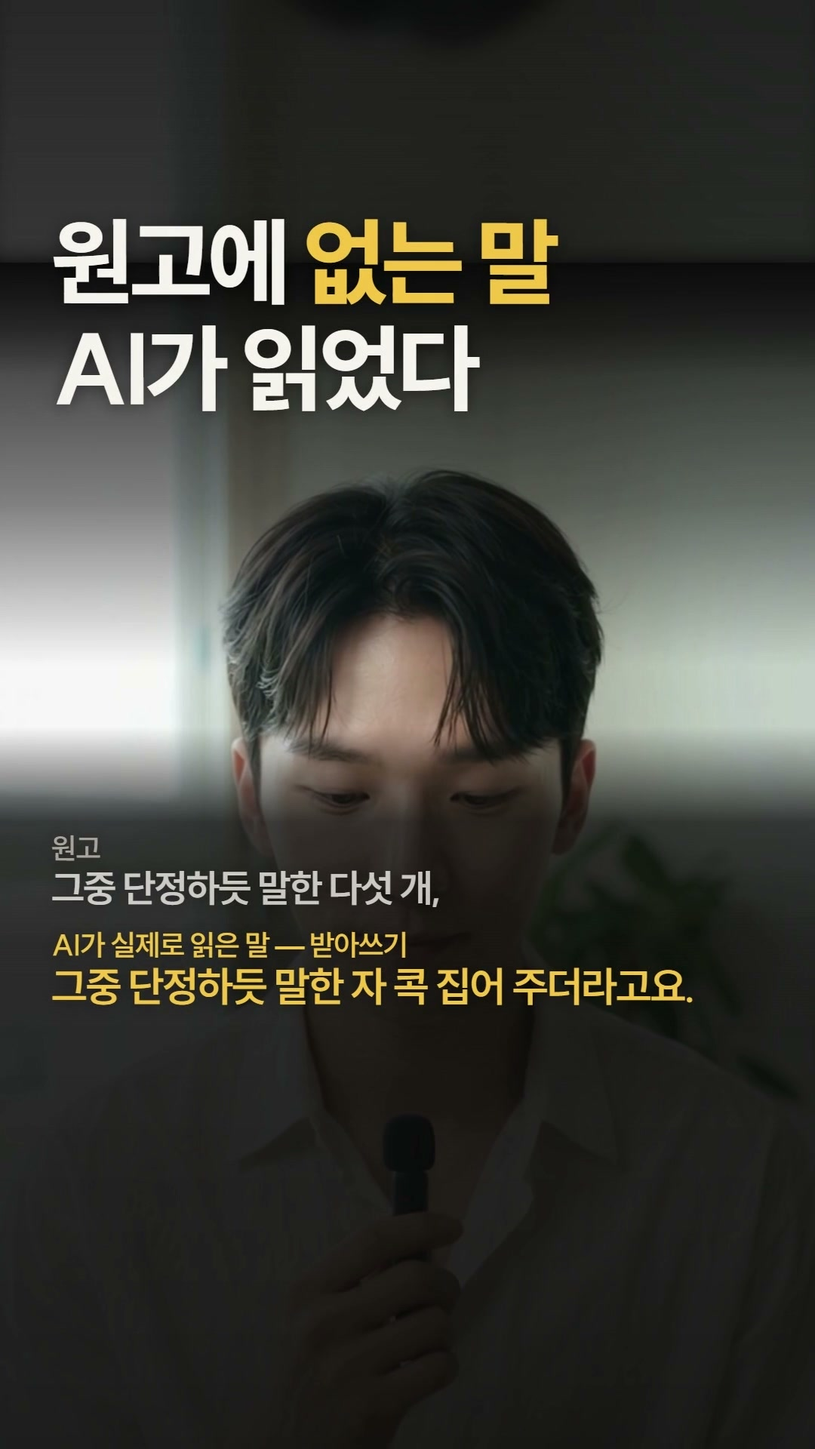
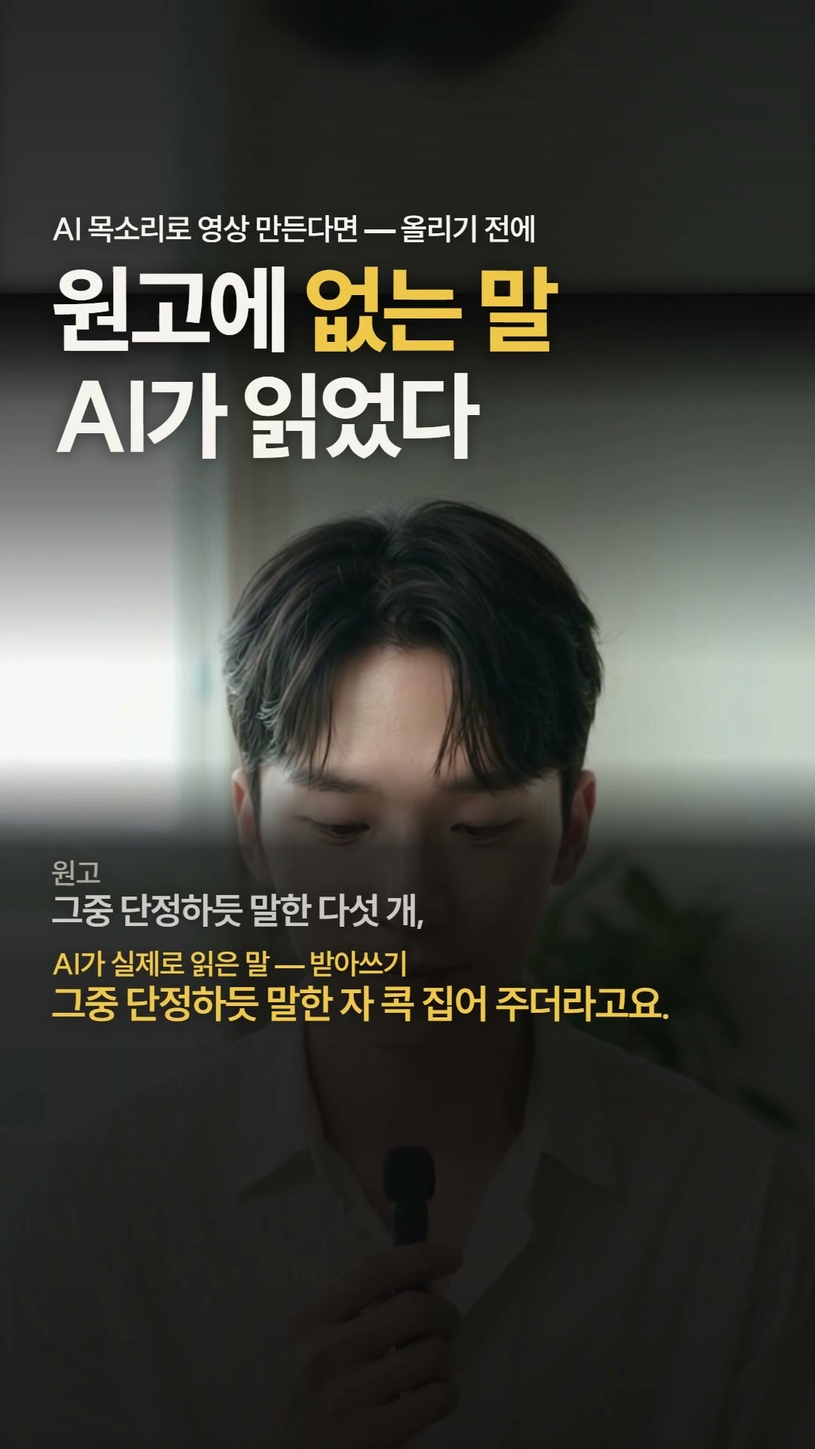
feat(yuhobuilds 11-09 · 11-11 끝은 저장할 한 장 · 11-03): 유호님 「맥락이 좀 없어서 시청자 입장에서 이걸 왜 보고있는지 별로 효과가 없다 … 저장할 한장으로 바꿔서 시험해보자」 — 말 · 소리는 그대로 두고 화면 글만: 0초 맨 위 누구 얘기 · 끝에 줄 것 한 줄, 전에 그대로 뒀을 때의 손해, 끝 4초 도구 이름 없이 따라 하는 3단계 카드. 이해 시험 11-09 v9 · 11-11 v8 모두 「바로 할 수 있게 된 것」 없음 → 3단계, 저장 넷 중 넷, 11-09 재미 2·2 → 3·3 · 

Changed region(s): [[0.0, 0.125, 1.0, 0.7188], [0.7333, 0.1562, 1.0, 0.1875]]

diff --git a/docs/마케팅/yuhobuilds_검수다섯_20261103/기획.md b/docs/마케팅/yuhobuilds_검수다섯_20261103/기획.md
@@ -14,7 +14,7 @@
 | 첫 2초 | 진행자 얼굴(아래) + 머리 위 카드 「AI 검수 답 · 초까지 짚은 지적」(00:29 목소리 심하게 지지직 · 00:34 귀를 찌르는 효과음 · 00:26 목소리가 절반으로 · 00:35 「지아내지」 오타 · 00:08 소리가 1초 먼저) + 말 「AI한테 제 영상들 검수를 맡겼더니,」. |
 | 형식 | 원본 https://www.youtube.com/shorts/sBawrl18I9g · 같은분야 · 큰 수 훅 → 다섯 하나씩 → 정리 반전 → 가져갈 것. |
 | 댓글 놀이 | 없음 — 가져갈 것(재는 두 길)은 영상 27.4초 카드와 말로 건넨다(장부 머리말 10-31 ④). |
-| 길이 | 38초(원본 35.2초의 108%, 미학 판 끝 카드 1초). |
+| 길이 | 40.8초(원본 35.2초의 116%, 끝 「저장할 한 장」 4초). |
 | 함정 | ① 검수 도구 · 모델 이름은 말 · 화면 · 글에 쓰지 않는다(장부 표 「먼저」) — 화면은 「AI 검수 답」 ② 편 번호 · 곡 이름 · 내부 번호를 보이지 않는다(지적의 초만) ③ AI가 「확실하다」고 말한 적은 없다 — 「단정하듯 말한」(11-03 Fable 사실 검수) ④ 「1초 먼저」의 실제 차이 0.05초는 코드 값이라 영상에선 「거의 딱 맞았어요」 · 「거의 0」, 숫자는 캡션 ⑤ 다섯 대조 값은 그날 잰 값 그대로(65% · 43~76% · −8 dB · −13.9/−14.7 dB · 확대 프레임) — 파형 그림은 그 편의 실제 소리를 이 편에서 다시 그린 것 ⑥ 맞힌 둘(배경음 끊김 · 진동음)은 다음 날 옛 형식 칸(11-12)의 소재와 겹치니 여기선 한 장면만 ⑦ 같은 주 11-09 진행자 칸과 끝 줄 · 무대가 다르게(이 편은 밝은 종이 바탕, 끝은 진행자 한마디 + 그어진 목록). |
 | **한 문장** | 「AI 검수가 초까지 짚어도 그대로 믿지 말고, 숫자와 확대 화면으로 직접 재 보세요 — 다섯 개가 다 틀렸어요」 |
 
@@ -43,6 +43,7 @@
 - **인물 분리:** 첫 렌더는 CPU rembg(알파 2px 줄임), 그 뒤 공용 GPU 차례가 돌아 SAM3(최소 IoU 0.988)로 바꿔 끼움. v3부터 얼굴 뒤 바탕은 크림 단색 대신 그 진행컷의 방을 흐리게 깐다(볼 이유 심사 「무늬 없는 크림 바탕이 AI 아바타 같음」).
 - **실제 근거:** 10-31 검수 답 원문(git 밖 `원천/ear/*_답.md`)에서 다섯 문장을 줄임만 해 옮김, 파형은 그 편들의 실제 소리를 이 편에서 다시 그림(`public/screens/*.png`), 오타 칸은 그 편의 실제 화면(`원천/y19_38.jpg`) 확대.
 - **미학 판(11-03 유호님 「좋은데 … 촌스러운 느낌이 있어. 미학 같은 걸 고려 안 한 느낌」 — 말 · 소리 · 근거 값은 그대로, 겉만 다시):** 크림 모눈 · 검은 테 카드 · 빨간 도장 · 초록 칩 · 작은 동그란 얼굴을 빼고 장부 머리말 「화면 결」대로 — 검정 · 흰 + 버터 한 곳(늘 「AI가 짚은 자리」에만) · 큰 글자가 곧 말 · 줄 단위 28px 올림 · 박 위 컷 + 들어올 때 1.035배 · 판은 늘 천천히 다가감 · SUIT 하나(명조는 AI 답 원문만). 화면 하나가 끝까지 자리만 바꾼다: AI 답 다섯 줄이 0.7초에 「탁」(원본 0.7초 결과 카드 자리) → 근거 장면 동안 쉼 → 반응 장면 얼굴 아래(다 그어진 채) → 끝 카드에서 더 세게(내용 규칙 ③). 11-09와 무대를 다르게(올리기 전 검사 「무대가 지난 편과 같다」 첫 장면 0.021): 첫 장면은 검정 무대 · 가운데 목록 · 아래 창에서 말하는 진행자, 끝은 종이 대신 검정 위 그어진 다섯 줄 + 한 문장. 근거 장면 뒤에는 휴대폰을 보는 진행자를 아래에 어둡게 깐다(맹검 심사 「얼굴 없는 구간 약 21초」). 근거 그림: 「1초 먼저」는 빗금 막대 둘(AI가 말한 1초 ↔ 실제 거의 0), 두 파형 칸에 높이를 견주는 점선, 오타 화면은 테 있는 캡처. 맹검 심사(Fable)는 첫 미학 판을 「감각은 더 낫다, 완성도 · 흐름은 옛 판」으로 봤고 짚은 것(오려 붙인 얼굴 · 밀어내기 · 작은 색인 · 19초 겹침 · 아래 빈칸 · 글꼴 셋)을 고쳐 최종. 제작 코드 `synk-vendor/yuhobuilds-검수다섯-20261103/src/videos.tsx`(옛 판 `videos_v5_보관.txt`), 새 Flow · 힉스필드 0.
+- **저장할 한 장(11-03 유호님 「맥락이 좀 없어서 … 저장할 한장으로 바꿔서 시험해 보자」 — 11-09에서 먼저 시험해 나아진 뒤 같은 방식):** ① 0초 맨 위 「AI한테 검수 맡긴다면 — 고치기 전에」 ② 손해는 이미 있는 「다 믿고 고쳤으면, 멀쩡한 걸 고칠 뻔」 ③ 끝은 한 문장 대신 4초 머무는 「고치기 전에 재는 법 3가지」 한 장(그 초로 가서 짚은 자리만 · 소리는 같은 영상 다른 줄과 크기 견주기 · 글자는 원본 화면 확대 — 이 편에서 실제로 잰 방법 그대로), 「확신에 찬 말투가, 증거는 아니다」는 그 밑 한 줄로. 배경음은 같은 원천에서 40.8초로 다시 자름.
 
 ## 시험
 
@@ -56,6 +57,7 @@
 | v3 | 둘 다 같음 | 4 · 3 | 3 · 3 | 끝까지 둘 | 계속 봄 둘 | 저장 · 안 함 | 달라 · **같아(무대 · 번호 재기 · 끝 초록 표시 — 11-09 진행자 칸과 같은 얼굴 틀)** | 3(4에 가까움) · 슬롭 아님 | **아니오** — 구체적인 표가 붙잡음 |
 | v6(미학 판 첫 렌더) | 둘 다 같음 | 4 · 3 | 2 · 3 | 14~18초 · 6~10초 | 계속 봄 둘 | 안 함 · 저장 | 같아 둘(11-09 미학 판과 무대 · 머리 글) | 3 · 아님 | 아니오 |
 | v7(미학 판 최종) | 둘 다 같음 | 3 · 3 | 3 · 3 | 14~18초 · 28~30초 | 계속 봄 둘 | 안 함 · 공유 | 같아 둘(11-09 미학 판과 위 두 줄 머리 글 · 말 순서 · 28초 크림 화면) | 3 · 아님 | 아니오 — 0~3초는 큰 글자가 먼저 읽히고 얼굴은 아래 |
+| v8(저장할 한 장) | 둘 다 같음 | **4** · 3 | 3 · 3 | **끝까지** · 12초 | 계속 봄 둘 | **저장 둘**(「재는 법 3가지」 카드) | 같아 둘(11-09와 맨 위 한 줄 · 끝 「저장해 두고」 번호 카드 · 말 순서) | 3 · 아님 · 캡처할 장면 있음(40.5초) | 아니오 |
 
 - **같이 짚어 고친 것(v3):** 「지적한 줄 65% · 다른 줄들 43~76%」 뜻을 모름(sonnet · haiku) → 퍼센트를 빼고 「지적한 문장 · 다른 문장들 · 같은 정도」로 · 「1초 먼저」 검은 칸 글자가 안 읽힘(sonnet · haiku · opus) → 밝은 칸 · 큰 글자 「실제로는 거의 동시」 · 「진동음」 맥락 없음(sonnet · haiku) → 맞힌 둘 카드에 한 줄씩(「다른 편 18초부터 배경음이 비어 있었음」 · 「휴대폰 진동 소리가 대사와 겹침」) · 「무슨 도구로 재는지 없음」(sonnet · haiku) → 가져갈 것 카드를 「같은 목소리 다른 문장과 크기 · 파형 견주기」 · 「원본 화면을 확대해서 보기」로 · 「00:29」가 무엇인지(sonnet) → 「29초」 · 「영상 몇 초에 뭐가 틀렸나」.
 - **한 시험관이 짚어 고친 것(v3):** 여는 말이 지난 편 머리 글과 같은 꼴(haiku ⑧) → 「AI 검수가 제 영상에서, …」로 바꿔 목소리 · 진행컷 다시 · 크림 바탕(opus) → 방 배경.
@@ -64,3 +66,4 @@
 - **v5에서 더 고친 것:** 첫 문장이 AI 칭찬처럼 들림(opus v4) → 「AI 검수가 제 영상 문제를 초까지 짚었는데요, 고치기 전에 재 봤어요.」(얼굴 줄 다시 구움, 말 뒤 r-intro) · 뒤에 깐 방에 같은 얼굴이 흐리게 비침(opus v4) → 사람을 뺀 방 배경판 · 「진동음」 뜻 → 「휴대폰 진동 소리」.
 - **못 고친 것:** 재미 2 · 2, 볼 이유 3(v5, v3 · v4보다 낮게 나옴 — 시험관마다 차이 큼) — 「같은 꼴이 다섯 번 되풀이돼 셋째부터 짐작된다 · 내 손해가 걸린 이야기가 아니다」. opus 제안(셋째부터 더 빠르게, 하나는 실제 소리를 들려주기)은 다음 판 후보. 제작 절차 「매일 한 편」 2대로 가장 나은 판을 「완성(관문 못 넘음)」으로 둔다. 11-09 진행자 칸과 같은 얼굴 · 비슷한 말 순서는 두 칸 모두 형식 시험의 진행자 꼴이라 남긴다(무대 색 · 끝 꼴은 다름).
 - **미학 판에서(v6 · v7):** 이해 4 · 3 → 3 · 3, 재미 2 · 3 → 3 · 3, 볼 이유 3(옛 판과 같음) · 슬롭 아님 · AI 진행자로 넘기지 않음. 고친 것: 6~10초 검은 화면에 목록만(haiku v6) → 아래 창에 진행자 · 「무슨 그래프인지」(sonnet v6) → 「다른 문장들 범위」 이름표 · 높이 점선 · 빗금 막대 · 19초 글 겹침(Fable) → 근거 장면 동안 목록을 쉬게 · 28~30초 크림 화면이 비어 멈춘 듯 · 11-09 종이와 같아 보임(haiku v6 · v7) → 검정 무대 + 아래 진행자(v7 뒤 고침, 다시 시험 안 함). 못 고친 것: 10~18초 다섯 근거가 같은 틀로 2초씩 지나가 폰에서 다 못 읽음(opus v6 · v7 — 「지어내지」 확대 하나를 크게, 나머지는 빨리) · 「무슨 영상의 몇 초인지」 맥락 — 말 · 소리 길이가 정해져 있어 다음 판 후보로 남긴다. 시험관 셋 모두 `시험/말.txt`에 줄 앞 초가 없다고 적었다(질문지는 「줄 앞 숫자는 시작 초」).
+- **저장할 한 장에서(v7 → v8):** 「바로 할 수 있게 된 것」이 「거의 없음 · 없음」에서 둘 다 「재는 법 3가지」로, 저장 안 함 · 공유 → 저장 둘, 이해 3 · 3 → 4 · 3. 재미 · 볼 이유는 그대로(3). 새로 생긴 것: 11-09와 끝 카드 · 맨 위 한 줄 꼴이 같아 둘 다 「같아 보임」 — 저장할 한 장을 계정 틀로 굳힐 때 편마다 카드 꼴(바탕 · 배치 · 제목 말)을 바꾸는 것이 다음 숙제. 남은 말: opus 「0~1.5초 『초까지 짚었다』가 AI 칭찬처럼 읽힘 — 『다섯 개, 재 보니 다 틀림』 뒤집기를 먼저 약속」, haiku 「10초부터 그래프가 빽빽해 12초 넘김」.

diff --git a/docs/마케팅/yuhobuilds_목소리되풀이_20261103/기획.md b/docs/마케팅/yuhobuilds_목소리되풀이_20261103/기획.md
@@ -18,7 +18,7 @@
 | 첫 2초 | 진행자가 휴대폰을 보며 듣는 얼굴 · 머리 띠 「원고에 없는 말이?」 · 받아쓰기 한 줄 「그중 단정하듯 말한 자 콕 집어 주더라고요.」가 소리에 맞춰 켜지고 0.9초에 「원고에 없음」. 소리는 그 판 4.58~6.36초 그대로. |
 | 형식 | 원본 https://www.youtube.com/shorts/KojyBLpl64U · 같은분야 · 위 얼굴 · 아래 결과 화면의 반응 꼴. |
 | 댓글 놀이 | 없음 — 가져갈 것(받아쓰기로 원고 대조)은 끝 말과 화면으로 건넨다. |
-| 길이 | 27.7초(원본 19.4초의 143%, 미학 판 끝 카드 1초) — 「다르게」: 결과 소리 · 진행자 말 · 고친 소리까지 실제로 들려줘야 해서 원본보다 길다. |
+| 길이 | 30.6초(원본 19.4초의 158%, 끝 「저장할 한 장」 4초) — 「다르게」: 결과 소리 · 진행자 말 · 고친 소리까지 실제로 들려줘야 해서 원본보다 길다. |
 | 함정 | ① 목소리 서비스 · 목소리 이름은 말 · 화면 · 글에 쓰지 않는다(실화 창고 「뺄 것」) ② 「단정하던」은 받아쓰기 오인일 수 있어 근거로 쓰지 않는다 — 화면 받아쓰기는 11-03 다시 받은 글 「단정하듯」(11-03 Fable 사실 검수) ③ 근거는 같은 서비스에서 두 번 — 「모든 AI 목소리가 그렇다」로 읽히지 않게 캡션에 범위 ④ 진행자 목소리도 같은 AI 목소리다 — 캡션 「진행자 얼굴과 목소리는 AI」 ⑤ 같은 주 11-11 진행자 칸과 무대 · 끝 줄이 다르게(이 편은 어두운 바탕 · 위 창 · 아래 결과, 끝은 두 판 나란히 + 한마디). |
 | **한 문장** | 「AI 목소리는 원고에 없는 말을 섞어 읽을 때가 있어요 — 꼭 받아쓰기로 원고와 한 줄씩 맞춰 보세요」 |
 
@@ -44,6 +44,7 @@
 - **실제로 잰 값:** 되풀이 판 20.39초 · −17.2 LUFS · 깨짐 53.5%, 나눠 만든 판 19.29초 · −17.1 LUFS · 깨짐 58.4% — 「음량 · 깨짐 차이 없음」은 이 값이다.
 - **모션(첫 판 v6):** 낱말이 소리에 맞춰 켜지는 받아쓰기 · 재생 줄의 실제 파형과 빨간 구간 · 줄이 벌어지며 끼어드는 없는 문장 · 같은 눈금의 두 판 파형 · 어둡게 깐 진행자 위 카드. 머리 띠는 주황 · 빨강 · 초록으로 바뀐다.
 - **미학 판(11-03 유호님 「좋은데 … 촌스러운 느낌이 있어. 미학 같은 걸 고려 안 한 느낌」 — 말 · 소리 · 뼈대는 그대로, 겉만 다시):** 머리 띠 · 카드 · 튀는 팝 · 낱말 띠를 빼고 장부 머리말 「화면 결」대로 — 원래 방 그대로(머리 위 자리는 영상을 내리고 같은 장면 윗부분을 뒤집어 흐리게 채움) + 위 그늘에 큰 글자(곧 말) · 검정 · 흰 + 버터 한 곳(없는 말에만) · 줄 단위 28px 올림 · 박 위 컷 + 들어올 때 1.035배 · 판은 늘 천천히 다가감 · SUIT 하나(명조는 원고 종이 한 곳) · 실제 소리에서 뽑은 파형이 흐르는 재생 줄 · 끼어든 줄의 선택 테가 그대로 파형 조각으로 옮겨 감 · 끝은 글자만 남은 종이. 첫 장면에 원고 줄 ↔ AI가 실제로 읽은 줄을 겹쳐 차이가 바로 보이게(볼 이유 심사 v7). 맹검 심사(Fable, 어느 쪽이 새 판인지 숨김)는 첫 미학 판을 「더 세련됨」으로 골랐고, 짚은 것(오려 붙인 흉상 · 밀어내기 전환 · 반쯤 잘린 글자 · 글꼴 셋 · 타자기 커서)을 고쳐 최종. 제작 코드 `synk-vendor/yuhobuilds-목소리되풀이-20261103/src/videos.tsx`(옛 판 `videos_v8_보관.txt`), 새 Flow · 힉스필드 0.
+- **저장할 한 장(11-03 유호님 「맥락이 좀 없어서 시청자 입장에서 이걸 왜 보고 있는지 별로 효과가 없다 … 저장할 한장으로 바꿔서 시험해 보자」 — 말 · 소리는 그대로, 화면 글만):** ① 0초 맨 위에 누구 얘기인지 · 끝에 무엇을 주는지 「AI 목소리로 영상 만든다면 — 올리기 전에」 ② 전(16초)에 그대로 올렸을 때의 손해 「그대로 올렸으면, 이 문장째 나갈 뻔」(음량 · 깨짐 검사 줄 뒤) ③ 끝은 교훈 한 줄 대신 4초 머무는 「AI 목소리 점검 3단계」 한 장(받아쓰기에 넣어 글자로 · 원고 옆에 놓고 다른 줄만 · 다른 줄이 있으면 나눠 다시 만들기, 도구 이름 없음). 배경음은 같은 원천에서 30.6초로 다시 자름.
 
 ## 시험
 
@@ -57,8 +58,10 @@
 | v6(첫 판 — 뒤로는 자막 겹침 · 낱말 하나만) | 둘 다 같음 | 4 · 3 | 3 · 3 | 끝까지 둘 | 계속 봄 둘 | 저장 둘 | 달라 · 같아(지난 Y30과 말 순서 · 머리 글) | 3 · 아님 | 아니오 — 다만 2.5~4초 정면 말하기가 가장 위험 |
 | v7(미학 판 첫 렌더) | 둘 다 같음 | 3 · 3 | 2 · 2 | 14~16초 · 8초 | 계속 봄 둘 | 저장 둘 | 달라 둘 | 2 · 아님 | 아니오 |
 | v8(미학 판 최종) | 둘 다 같음 | 4 · 3 | 2 · 2 | 14~16초 · 14초 | 계속 봄 둘 | 저장 둘 | 같아 둘(Y30과 위 두 줄 머리 글 · 가운데 진행자 · 말 순서) | 2 · 아님 | **예**(매끈한 얼굴 · 내내 같은 자세) |
+| v9(저장할 한 장) | 둘 다 같음 | 4 · 3 | **3 · 3** | **끝까지** · 14초 | 계속 봄 둘 | 저장 둘(「점검 3단계 카드」) | 달라 · 같아(Y30과 진행자 + 위 머리 글) | **3** · 아님 · 캡처할 장면 있음(30.3초) | **아니오** |
 
 - **같이 짚어 고친 것:** 「받아쓰기」가 뭔지(sonnet · haiku) → 머리 띠 「AI 목소리를 글자로 받아쓰는 중」 · 「구운 · 판」(haiku) → 「만든 소리」로 말 · 글 모두 · 14~22초 어두운 빈 화면(sonnet · haiku · opus) → 진행자를 어둡게 깔고 아치 창 없앰 · 고친 소리를 눈으로 확인 못 함(opus) → 22.15초 그 자리에 고친 소리 + 초록 재생 줄 · 「앞 절반 · 뒤 절반」 뜻(haiku v3) → 「긴 원고는 둘로 나눠서 만들기」 · 끝 두 칸 카드 → 위아래 두 줄.
 - **v5 · v6에서 더 고친 것:** 첫 3초가 빽빽함(sonnet 「넘김」) → 그 문장 한 줄 · 큰 글자 · 실제 소리만 남기고 파형 줄을 뺌 · 18~22초 체크 표가 앞 말을 되풀이함(opus · haiku) → 「이 문장을 잡아낸 건? 길이 ✕ · 음량 ✕ · 깨짐 ✕ · 받아쓰기 ✓」로 바꿈 · 「앞 절반 · 뒤 절반」 → 「긴 원고는 둘로 나눠서 만들기」.
 - **못 고친 것:** 재미 3 · 3, 볼 이유 3 — 세 심사 모두 「쓸모는 있는데 놀라움 · 여운이 약함」. opus v6 제안(14초쯤 두 소리를 붙여 들려주고 「어디가 이상한지 맞혀 보세요」)은 시청자가 직접 못 알아채는 경험을 주는 다음 판 후보로 남긴다. haiku가 「받아쓰기 도구를 모르겠다」고 짚은 것은 캡션 · 티스토리 몫(도구 이름을 영상에 쓰지 않는다). 같은 문장이 소리로 여러 번 도는 것은 소재 자체다. 제작 절차 「매일 한 편」 2대로 가장 나은 판을 「완성(관문 못 넘음)」으로 둔다. haiku는 v3에서도 Y30과 말 순서가 같다고 봤다(질문 → 과정 → 비교) — 원본이 다른데 같은 계정의 근거 편 꼴이라 남긴다.
 - **미학 판에서(v7 · v8):** 「받아쓰기」 뜻 · 파형 두 줄이 무엇을 견주나 · 무엇이 잡아냈나가 흐려졌다(sonnet · haiku v7) → 「AI가 실제로 읽은 말 — 받아쓰기」 · 「고친 소리 / 처음 소리」 + 「없는 말」 이름표 · 「음량 검사 — 차이 없음」 · 「받아쓰기로만 찾았다」로 고쳐 이해 4 · 3으로 돌아옴. 재미 2 · 2, 볼 이유 2는 두 판 모두 「사건이 작다 · 그냥 들으면 지나칠 뻔했다고 스스로 말한다」(opus) — 소재 몫이라 겉으로는 못 올렸다. 시험은 정지 그림 묶음이라 움직임 · 전환의 차이는 이 표에 안 잡힌다. v8 opus가 처음으로 「AI 진행자로 읽힌다」고 했다(2.5~26초 같은 자세) — 같은 C 얼굴 · 같은 진행컷이라 다음 진행자 칸(11-13)에서 자세 · 거리가 다른 컷을 섞는 후보로 남긴다. 「같아 보임」은 S42 · Y30 머리 글 꼴을 따른 결과다.
+- **저장할 한 장에서(v8 → v9):** 「보고 나서 바로 할 수 있게 된 것」이 「받아쓰기 대조 — 도구 · 방법 모름」 · 「없음」에서 둘 다 「올리기 전 3단계 점검」으로 바뀜. 재미 2 · 2 → 3 · 3, 넘김 sonnet 14~16초 → 끝까지, 볼 이유 2 → 3, 「AI 진행자로 넘김」 예 → 아니오 — 시험관은 판마다 새 사람이라 한 판 차이는 흔들림일 수 있다. 남은 말: haiku 「받아쓰기 도구 이름이 없어 바로는 어렵다」, opus 「0~2초 글이 네 겹 — 원고 한 줄 / 읽은 한 줄만」 · 「16초 『검사 다 통과했는데 나갈 뻔』을 3초 안으로」 · 「3단계가 짧아 외워진다」 — 다음 판 후보.

diff --git a/docs/마케팅/기획장부/이해시험_기록.md b/docs/마케팅/기획장부/이해시험_기록.md
@@ -12,8 +12,8 @@
 | 11-03 | LAB 두 채널 | E21 「-지 마」 간체(샤오훙수) · 버마어(틱톡 @synklab.mm) 판 — 소리는 한국어 그대로, 뜻 줄 · 이야기 자막만 그 나라 말 — **관문 못 넘음, 올림** | 간체 이해 4 · 3 · 4 · 재미 4 · 4 · 4, 버마어 이해 3 · 3 · 3 → 자막 키움 · 쪽지 낱말 고친 2판 sonnet 4 · 재미 4 | 간체 셋 다 끝까지 · 저장. 셋이 같이 짚은 「먹어」로 바뀌는 까닭은 영어 판과 같이 남음. 버마어 1판 sonnet 0.1~0.8 · 14.6~17.4초 넘김 → 2판 끝까지. haiku 같아 보임 둘 | 닫힘 — 재미 4가 이어지는 이야기 편은 말 없는 판으로도 옮겨 간다 |
 | 11-03 | LAB 몽골 | M27 「입을 땐 넷, 벗을 땐 하나 — 벗어요」(오마주 같은분야 HY6_V4ECnpg, 나란히 맞음 · 다르게 셋) — **관문 못 넘음, 올림(v7)** | 네 판: 이해 4 · 4 · 4 → 4 · 4 · 4 → 4 · 4 · 4 → 4 · 4 · 3, 재미 3 · 3 · 3 → 3 · 3 · 4 → 3 · 4 · 3 → 3 · 3 · 3, 볼 이유 이야기 · 4 · 아님 내내 | 답 1 다 맞음 · 저장. 넘김은 G 9.4 · 11.9초(단어 나열 구간)뿐. 걸린 것은 재미 · ⑧ haiku 같아 보임. 첫 컷 · ✕ 칸 · 눈길을 장면으로 고침(장화를 뒤집어씀 · 모자가 눈을 덮음 · 벌렁) | 닫힘 — 관문이 못 맞힌 축(M18 · M19)이라 72시간을 본다 |
 | 11-03 | LAB 영어 | E20 「There's no F in Korean — 피오나 · 빅터 · 자라(거북이) · 밥」(오마주 같은분야 ABi9-hza5Ks, 나란히 맞음 · 다르게 셋) — **관문 못 넘음, 올림(v9)** | 여섯 판: 이해 4 · 3 · 3 → 4 · 4 · 4 → 4 · 4 · 4 → 4 · 4 · 4 → 5 · 4 · 4 → 4 · 3 · 3, 재미 3 · 3 · 3 → 3 · 4 · 3 → 3 · 3 · 3 → 3 · 4 · 3 → 3 · 3 · 3 → 4 · 3 · 3, 볼 이유 이야기 · 3 → 3 → 4 → 3 → 3 → **4** · 아님 | 답 1 다 맞음 · 넘김은 결과 뒤뿐. 걸린 것은 ⑧ haiku 같아 보임. 시소 고리(셋) → 떨어질 때 처음 보임, 빅터 되풀이 → 머리 치기 · 당김, 끝이 식음 → 밥 · 너는? | 닫힘 — 볼 이유 심사가 짚은 대로 끝에 장면을 더할수록 올랐다 |
-| 11-03 | yuhobuilds | 11-09 AI 목소리 되풀이(진행자 · 이마 주름 없는 판 · 오마주 KojyBLpl64U, 같은 날 [미학 판](yuhobuilds.md#presenter-look-20261103)으로 다시 — v8) — **관문 못 넘음** | 첫 판 v6 이해 4 · 3, 재미 3 · 3, 볼 이유 3 → 미학 판 v8 이해 4 · 3, 재미 2 · 2, 볼 이유 2 · 슬롭 아님 · 「AI 진행자로 읽힘」 처음 예 | 끝까지 둘 · 재미 · 볼 이유 — 「쓸모는 있는데 놀라움 · 여운이 약함」 | 처음으로 「AI 진행자라서 넘기나 — 아니오」. 다음 판 후보: 두 소리를 붙여 들려주고 맞혀 보게 |
-| 11-03 | yuhobuilds | 11-11 AI 검수 다섯(진행자 · 이마 주름 없는 판 · 오마주 sBawrl18I9g, 같은 날 [미학 판](yuhobuilds.md#presenter-look-20261103)으로 다시 — v7) — **관문 못 넘음** | 첫 판 v5 이해 3 · 3, 재미 2 · 2, 볼 이유 3 → 미학 판 v7 이해 3 · 3, 재미 3 · 3, 볼 이유 3 · 슬롭 아님 | 12~14초 · 18초 — 같은 꼴이 다섯 번 되풀이돼 셋째부터 짐작됨 | 다음 판 후보: 셋째부터 빠르게, 하나는 실제 소리 들려주기 |
+| 11-03 | yuhobuilds | 11-09 AI 목소리 되풀이(진행자 · 이마 주름 없는 판 · 오마주 KojyBLpl64U, 같은 날 [미학 판](yuhobuilds.md#presenter-look-20261103)으로 다시 — v8) — **관문 못 넘음** | 첫 판 v6 이해 4 · 3, 재미 3 · 3, 볼 이유 3 → 미학 판 v8 이해 4 · 3, 재미 2 · 2, 볼 이유 2 · 「AI 진행자로 읽힘」 처음 예 → [저장할 한 장](yuhobuilds.md#save-card-20261103) v9 이해 4 · 3, 재미 3 · 3, 볼 이유 3 · 슬롭 아님 · 아니오, 바로 할 수 있는 것 「3단계 점검」 둘 다 | 끝까지 둘 · 재미 · 볼 이유 — 「쓸모는 있는데 놀라움 · 여운이 약함」 | 처음으로 「AI 진행자라서 넘기나 — 아니오」. 다음 판 후보: 두 소리를 붙여 들려주고 맞혀 보게 |
+| 11-03 | yuhobuilds | 11-11 AI 검수 다섯(진행자 · 이마 주름 없는 판 · 오마주 sBawrl18I9g, 같은 날 [미학 판](yuhobuilds.md#presenter-look-20261103)으로 다시 — v7) — **관문 못 넘음** | 첫 판 v5 이해 3 · 3, 재미 2 · 2, 볼 이유 3 → 미학 판 v7 이해 3 · 3, 재미 3 · 3, 볼 이유 3 · 슬롭 아님 → [저장할 한 장](yuhobuilds.md#save-card-20261103) v8 이해 4 · 3, 재미 3 · 3, 볼 이유 3, 저장 둘 · 바로 할 수 있는 것 「재는 법 3가지」 둘 다 | 12~14초 · 18초 — 같은 꼴이 다섯 번 되풀이돼 셋째부터 짐작됨 | 다음 판 후보: 셋째부터 빠르게, 하나는 실제 소리 들려주기 |
 | 11-02 | yuhobuilds | Y30 「남의 영상, 조회 1위를 따라 하려다 — 507만 회에 좋아요 58개」(진행자 형식 S42 첫 편 · 오마주 같은분야 oxRD_YX2vEQ, 나란히 다섯 항목 통과) — **관문 못 넘음, 올림(v11)** | 세 판(v6 · v8 · v9): 이해 4 · 3 → 4 · 3 → 4 · 3, 재미 3 · 3 내내, 볼 이유 3 · 슬롭 아님 내내 | 넘김 없음(v9 둘 다 끝까지). 걸린 까닭: 「쓸모 있는 기준이지만 저장만 하고 여운 · 놀라움 없음」, 20~22초 정리가 비교 판의 되풀이. 같이 짚어 고친 것 — 「광고 노출?」 근거(→ 「9만 명이 봐야 ♥ 1개」) · 「약 2천 회」 뜻 · 안 온 탭. **볼 이유 심사관이 세 판 모두 「AI 진행자로 읽혀 넘기고 싶다」(매끈한 아이돌 얼굴 · 오려 붙인 듯)** — 진행자 형식에서 처음 재 본 물음 | 72시간 성과를 옛 형식 편과 견준다 · 진행자 얼굴 결은 유호님께 보고 |
 | 11-02 | LAB 영어 | E21 「-지 마 = don't — 먹지 마 · 입지 마 · 열지 마 … 가지 마」(오마주 같은분야 RqduGlTXlV8, 나란히 맞음 · 다르게 넷 · 몽골판 M22와 같은 이야기) — **관문 못 넘음, 올림(v6)** | 일곱 판(v2 · v4~v8): 이해 4 · 2 → 4 · 3 → 3 · 3 → **4 · 4** → 4 · 3 → 4 · 3, 재미 4 · 3 → 3 · 3 → 3 · 2 → **4 · 4** → 4 · 3 → 4 · 4, 볼 이유 일곱 번 다 이야기 · 4 · 아님(GPT 크레딧 없음) | 넘김은 v4 haiku 14~16초 · v5 둘 다 6~9초(저녁 자막을 빼고 그림만 둔 판) · v7 haiku 7~9초, 올린 v6은 둘 다 끝까지. 걸린 것은 끝 반전의 까닭(「먹어」는 누구 말 · 왜 바뀌나 — 판마다 둘이 같이 짚음)과 haiku 9번 같아 보임(말풍선 세 줄 · 끝 한 낱말 카드). 같이 짚어 고친 것: 머리 글 · 소파 → 앞치마 · 「= don't」 딱지 → 색 짝 · 쪽지에서 커져 나오는 「먹지 마 → 먹어」 · 처음부터 그의 가방 · 외투 | 올림. 볼 이유 심사(opus)는 「자막으로 때우지 말고 보여라」, 정지 그림 시험관(haiku)은 그림만 둔 판에서 바로 떨어졌다 — 이야기 편은 짧은 자막 한 줄 + 보여 주는 컷을 같이 둔다. 정지 그림 시험은 2초 간격이면 1~2초짜리 반전 카드를 놓친다 — 반전이 있는 편은 처음부터 `--컷` |
 | 11-02 | LAB 몽골 | M24 「물고기 = загас」(영어 편 E22 그림 · 소리 나눠 씀 · 오마주 형식만 dhON-w9e9rI, 나란히 맞음 · 다르게 다섯) — **관문 못 넘음, 올림(v10)** | 여섯 판: 이해 4 · 2 → 4 · 3 → 4 · 3 → 4 · 3 → 4 · 2 → 4 · 3, 재미 3 · 3 → 3 · 3 → 3 · 3 → 3 · 4 → 3 · 3 → 3 · 4, 볼 이유 여섯 번 다 이야기 · 3 · 아님(GPT 크레딧 없음) | 넘김은 결과(5.9초) 앞 sonnet 3~5초(v8 · v10) · 나머지는 결과 뒤나 끝까지. 걸린 것은 「усны мах?」 물음(둘, v3 · v6 — 「글자 그대로: … / 진짜 뜻: ЗАГАС」로 풀어 씀), 끝 반전의 뜻(둘 — 작별 · 하트 → 새 끝 장면 · 꿀꺽 → 「…?!」), haiku 9번 같아 보임 | 올림. 정지 그림 시험은 1초 남짓의 행동 반전(꿀꺽)을 못 잡는다 — 반전은 한 장에도 읽히는 그림(물린 고기가 입에 반쯤 든 장면)으로 1초 넘게 둔다. 같은 이야기의 두 언어 판은 끝을 언어마다 따로 짤 수 있다 |

diff --git a/docs/마케팅/기획장부/yuhobuilds.md b/docs/마케팅/기획장부/yuhobuilds.md
@@ -22,6 +22,7 @@
   - **진행컷:** Flow Omni 1.1 Flash · 720p · 8초 · 9:16 · x1, 고정 카메라 · 대사 한 번 · 작은 몸짓 · 말 뒤 입 다문 반응. 요청마다 승인 얼굴이 입력창 안에 붙었는지 확인하고, 앞 요청의 입력창이 비워진 뒤에 다음을 넣는다([현장 노트 · 브라우저](../../현장노트/브라우저_게시.md) — 11-02 시안은 8번 중 4번이 사진이 빠져 다른 얼굴). 받은 판마다 처음 · 중간 · 끝 얼굴을 승인 얼굴과 나란히 보고, 다르면 쓰지 않고 다시 뽑는다. Flow 구독 몫만 쓰고 한 편 200크레딧 안(11-02 시안 96), 쓴 양을 보고에 적는다 — 힉스필드는 여전히 먼저 여쭌다. **C 얼굴로 바꾼 뒤(11-02 밤):** S42 · Y30 틀의 `browser-helpers.mjs`는 승인 소재 이름(`yuho-idol-6-4.png`)과 지시문의 「idol 6:4 hairstyle」이 박혀 있다 — C 판 `synk-vendor/yuhobuilds-face-test-20261102/browser-helpers_C.mjs`(「short dark hair with a soft natural side part」 · `yuho-short-C.jpg`)를 복사해 쓴다. C 얼굴은 Flow 프로젝트 「유호 진행자 두 채널 · 20261102」(`flow.google.com/u/4/project/30f04261-…`) 소재 목록에 이미 올라가 있다(소재 목록에서 그 줄을 누르고 「프롬프트에 추가」가 켜질 때까지 기다렸다 누른다 — 바로 누르면 「disabled」). 11-02 확인 한 판(`flow/C-01-intro.mp4`): 8초 내내 같은 얼굴 · 대사 받아쓰기 그대로 · 끝 반응은 휴대폰을 보며 살짝 웃는 정도로 차분하다 — 반응 칸이 약하면 지시문의 반응을 더 분명하게 쓴다.
   - **이마 주름 없이(11-03 유호님 「내 얼굴이 너무 늙어보여」 → 「승인사진 c에서 말할 때 주름만 안 지게 · 주름 빼고는 다 맘에 들었어」):** 승인 사진 C는 그대로이고, Flow 지시문에서 「Real skin texture」를 빼고 「well-rested and freshly groomed · relaxed smooth forehead with no forehead lines」, 「윗얼굴은 가만히 두고 입만 움직인다 · 눈썹을 올리거나 찌푸리지 않는다」를 넣는다. 놀람 · 어리둥절 · 비꼼 같은 연기 낱말은 눈썹을 움직여 주름을 만든다 — 반응 칸도 「고개를 든 채 눈만 내리고, 멈췄다가 눈을 들어 작게 웃는다」로 쓴다. 지시문 틀 `C:/Users/q1212/ego/yuhobuilds-ep-20261103/lib.mjs` facePromptY · round-09.mjs CALM. 받은 판은 이마만 잘라 초마다 본다. 현장 노트 브라우저_게시 11-03 항목.
   - <a id="presenter-look-20261103"></a>**화면 결(11-03 유호님 「좋은데 조금 더 모션그래픽을 활용한다던지 색감을 트렌디하게 … 뭔가 좀 촌스러운느낌이 있어. 미학같은걸 고려 안한느낌」):** 11-09 · 11-11 첫 판은 장면마다 색이 바뀌는 머리 띠(주황 · 빨강 · 초록) · 위 제목 + 아래 상자 카드 · 튀는 팝 · 도장 · 낱말 띠로 카드뉴스 틀이었다. 진행자 편은 이것으로 시작한다 — ① 원래 방 그대로: 머리 위 글 자리는 진행컷을 아래로 내리고 빈 위쪽을 같은 장면 윗부분을 뒤집어 흐리게 채운 뒤 그늘을 깐다. 사람을 오려 흐린 판 위에 얹으면 맹검 심사 둘 다 「AI 아바타 흉상 · 그린스크린 발표자」. ② 검정 · 흰 + 버터 #F5C445 한 곳(그 편에서 짚는 자리에만). ③ 큰 글자가 곧 말(124px 두 줄, x 74 · y 284부터), 줄 단위 28px 올림 + 불투명도 — 마스크로 자르면 반쯤 잘린 글자 프레임이 「깨진 글자」로 읽힌다. ④ 전환은 박 위 컷 + 들어올 때 1.035배 당김, 판은 늘 아주 천천히 다가감(밀어내기 전환은 「키노트 슬라이드」). ⑤ 글꼴은 SUIT 하나, 명조는 원문(원고 · AI 답) 한 곳만, 모노 · 타자기 커서 · 낱말 켜짐 띠 없음. ⑥ 글자는 안전선 x 65~920 · y 269~1428 안(올리기 전 검사). ⑦ 얼굴이 빠지는 근거 장면은 진행자를 화면 아래에 어둡게 깐다. ⑧ 같은 주 진행자 두 편은 첫 · 끝 장면 무대를 다르게(올리기 전 검사 「무대가 지난 편과 같다」). 그림은 [그래프 문법](../../디자인/그래프_문법.md)(양은 빗금 막대, 기준 대비는 편차 점). 본보기 코드 `synk-vendor/yuhobuilds-목소리되풀이-20261103/src/videos.tsx` · `yuhobuilds-검수다섯-20261103/src/videos.tsx`(git 밖). 유호님 확인 전 — 만족 사례가 아니다.
+  - <a id="save-card-20261103"></a>**끝은 저장할 한 장(11-03 유호님 「맥락이 좀 없어서 시청자 입장에서 이걸 왜 보고있는지 별로 효과가 없다 … 저장할 한장으로 바꿔서 시험해 보자」):** 최근 편은 결이 매번 「~하세요」 한 줄이고 「어떻게」는 캡션으로 빠져, 시험관이 「바로 할 수 있게 된 것 — 없음 · 방법 모름」, 게시 편 저장 0~3이었다. 기획 「남는 것」을 영상 안의 한 장으로 적는다 — ① 0~3초 맨 위 한 줄에 누구 얘기인지 · 끝에 무엇을 주는지(「AI 목소리로 영상 만든다면 — 올리기 전에」) ② 전에 그대로 뒀으면 생길 손해 한 줄 ③ 끝 4초는 도구 이름 없이 그대로 따라 하는 3단계 한 장(「저장해 두고, …」). 시험(11-03, 말 · 소리는 그대로 화면 글만): 11-09 · 11-11 모두 「바로 할 수 있게 된 것」이 3단계로 바뀌고 저장 넷 중 넷, 11-09는 재미 2 · 2 → 3 · 3 · 볼 이유 2 → 3. 같은 꼴 카드를 매번 쓰면 「같은 틀」로 읽히니(11-11 둘 다 「같아 보임」) 편마다 카드 바탕 · 배치 · 제목 말을 바꾼다. 카드 말은 그 편에서 실제로 한 방법만.
   - **얼굴이 말하는 줄은 짧게:** 처음 · 끝 2~3줄만 얼굴이 말하고, 나머지는 보이스오버 + 실제 화면 · 모션. 목소리에 입을 맞추려고 진행컷의 프레임 시간을 늘이고 줄이므로(S42 `align.py`) 길게 쓰면 어긋남이 쌓인다.
   - **목소리:** 범수(10-29 유호님 「1인칭 목소리는 범수로 해도 이 컨텐츠는 괜찮아」). S42 시안의 Eleven v4 Chris는 무료 계정이라 비상업 검토용이다 — 상업용으로 쓸 길(Eleven 유료 또는 힉스필드 Eleven v4)을 유호님이 정하시면 Chris로 바꾼다([트랙](../../_ops/트랙.md) §1). Flow가 낸 소리는 쓰지 않고 낱말 시간 대조로 맞춘다.
   - **합성:** SAM3로 인물 알파를 뽑아(공용 GPU 차례 — [현장 노트 · 영상](../../현장노트/영상_ffmpeg_자막.md) 「GPU 작업을 줄 없이…」) Remotion에서 큰 글자는 인물 뒤, 설명 카드는 앞, 핵심 낱말은 말하는 순간에. 틀은 S42 폴더(`synk-vendor/yuho-presenter-duo-20261102/`)를 편마다 git 밖 `synk-vendor/yuhobuilds-<편 이름>/`으로 복사해 소스 이름 · 대본만 바꿔 쓴다. 렌더 뒤 최종 파일 교체 실패(EPERM)는 [현장 노트 · 영상](../../현장노트/영상_ffmpeg_자막.md) 「Remotion이 100% 뒤…」. 게시본 MP4만 편 폴더로 가져온다(`*.mp4`는 git이 무시한다).

diff --git a/docs/_ops/트랙.md b/docs/_ops/트랙.md
@@ -47,7 +47,7 @@ synk-town 운영은 11-01 실제 대조 v45 — 0555a4c7(싱크타운 첫 C4 후
 ## 1. 유호님 차례 — 한곳에 모음
 
 - **회사 서버 결제 unmet23로 잠시 — 11-12까지 되돌리기(11-02, 유호님 허락 문장 필요):** 11-02 21시 `synk-bake-unmet27` 결제를 unmet23 결제 계정(…F1B948, 무료 크레딧 83,456원 · **11-13 만료**)으로 옮겼다(VM 셋 RUNNING · health 200 그대로, 기록 `.tmp/company-billing-unmet23-20261102/`). **11-12에** unmet27(…40F3CB, 12-07 만료) 또는 77yuhbs(…CE0D07, 월 Ultra 크레딧)로 옮긴다 — 어느 쪽인지와 결제 변경 허락을 유호님이 그 창에서 한 문장으로. unmet27이면 `node .tmp/company-billing-unmet23-20261102/switch.cjs back-unmet27`, 77yuhbs면 먼저 그 결제 계정에 unmet27을 결제 계정 사용자로(재인증은 유호님). 예약 작업은 판정기가 막아 이 줄로 둔다.
-- **yuhobuilds 형식 시험 진행자 칸 둘 완성(11-03):** 11-09 [AI 목소리 되풀이](../마케팅/yuhobuilds_목소리되풀이_20261103/기획.md) · 11-11 [AI 검수 다섯](../마케팅/yuhobuilds_검수다섯_20261103/기획.md) — 둘 다 「완성(관문 못 넘음 — 재미 · 볼 이유)」, 얼굴은 이마 주름 없는 판. 같은 날 유호님 「촌스러운 느낌」으로 두 편 모두 미학 판으로 다시 만들어 최종.mp4 교체(장부 머리말 [화면 결](../마케팅/기획장부/yuhobuilds.md#presenter-look-20261103), 올리기 전 검사 고칠 것 0) — 유호님 확인 전. 게시는 슬롯 날 14시 작업. 남은 칸 11-10 · 11-12는 같은분야 원본으로(장부 표), 11-13 진행자 칸도 이마 주름 없는 지시문으로.
+- **yuhobuilds 형식 시험 진행자 칸 둘 완성(11-03):** 11-09 [AI 목소리 되풀이](../마케팅/yuhobuilds_목소리되풀이_20261103/기획.md) · 11-11 [AI 검수 다섯](../마케팅/yuhobuilds_검수다섯_20261103/기획.md) — 둘 다 「완성(관문 못 넘음 — 재미 · 볼 이유)」, 얼굴은 이마 주름 없는 판. 같은 날 유호님 「촌스러운 느낌」으로 두 편 모두 미학 판으로 다시 만들어 최종.mp4 교체(장부 머리말 [화면 결](../마케팅/기획장부/yuhobuilds.md#presenter-look-20261103), 올리기 전 검사 고칠 것 0) — 유호님 확인 전. 이어서 끝을 [저장할 한 장](../마케팅/기획장부/yuhobuilds.md#save-card-20261103)으로 바꿔 시험(두 편 모두 「바로 할 수 있는 것」이 3단계로) · 최종.mp4 교체. 남은 숙제: 카드 꼴이 두 편 같아 「같은 틀」로 읽힘 — 11-13부터 편마다 바꾸기. 게시는 슬롯 날 14시 작업. 남은 칸 11-10 · 11-12는 같은분야 원본으로(장부 표), 11-13 진행자 칸도 이마 주름 없는 지시문으로.
 - **yuhobuilds 형식 시험 판정 — 11-17 밤 보고(11-02 예약, Claude 몫):** 11-09~11-14 여섯 칸(진행자 3 · 옛 형식 3, [장부 「형식 A/B 시험」](../마케팅/기획장부/yuhobuilds.md#format-ab-20261109))의 인스타 72시간 숫자로 [결정](결정.md) 11-02 「진행자 형식 시험 셋」에 미리 적은 기준대로 판정해 보고한다(마지막 칸 11-14 21:00 게시의 72시간 = 11-17 21:00 — 그 숫자가 게시/성과.json에 들어온 뒤, 늦어도 11-18). 남은 일: 판정 결과를 이 줄과 결정 표에 적고 장부 머리말 「얼굴 · 목소리」를 굳히거나 옛 형식으로 돌린다. 진행자 얼굴은 [눈가림 시험](../마케팅/yuhobuilds_진행자얼굴시험_20261102/시험.md) 뒤 유호님 「C 짧은 머리」(11-02 밤, 결정 표 — B 콘로우는 「나같지 않아」로 버림).
 - **yuhobuilds 진행자 목소리 — 상업용 길 정하기(11-02, 유호님 차례):** S42 시안의 Eleven v4 Chris는 무료 계정이라 비상업 검토용이다. 매일 제작은 그때까지 범수로 만든다. Chris로 가려면 ① Eleven 유료 플랜(돈) ② 힉스필드 Eleven v4(크레딧 — 드라마 Julian · Elena가 쓰는 길, Chris 프리셋이 있는지는 고르시면 확인) 가운데 하나를 정해 주시면 된다. Chris를 따로 들어 보고 고르신 기록은 없다(11-01 오디션 Julian · Fish · Gemini는 셋 다 「AI 같다」).
 

diff --git a/docs/_ops/결정.md b/docs/_ops/결정.md
@@ -7,6 +7,7 @@
 <!-- 결정표 시작 · tools/결정.js 가 이 구간만 읽고 쓴다 -->
 | 날짜 | 성격 | 결정 | 근거 |
 |---|---|---|---|
+| 2026-11-03 | 확정 | [yuhobuilds 끝은 저장할 한 장 · 11-03] yuhobuilds 편의 결을 「~하세요」 교훈 한 줄에서 영상 안의 한 장으로 바꾼다: 0~3초 맨 위 한 줄에 누구 얘기 · 끝에 줄 것, 전에 그대로 뒀을 때의 손해 한 줄, 끝 4초에 도구 이름 없이 따라 하는 3단계 카드(그 편에서 실제로 한 방법만). 같은 꼴 카드는 「같은 틀」로 읽히니 편마다 바탕 · 배치 · 제목 말을 바꾼다. 정본은 장부 머리말 「끝은 저장할 한 장」. | 유호님 11-03 「맞아 지금은 맥락이 좀 없어서 시청자 입장에서 이걸 왜 보고있는지 별로 효과가 없다고 생각해. 그래서 저장할 한장으로 바꿔서 시험해보자」 · 시험 11-09 v8→v9 · 11-11 v7→v8 모두 「바로 할 수 있게 된 것」 없음 → 3단계, 저장 넷 중 넷 |
 | 2026-11-03 | 확정 | [제2의 나 · 얼굴 조각 실존 인물 대조 절차 · 부름 굽기 관문 기준 · Claude 판단(기술 설계)] 설계 5절의 대조를 experiences/drama/qa/제2의나-20261102/조각/실존대조.mjs로 돌린다 — ① 얼굴만 잘라 구글 렌즈(ego) 역검색, 판정은 공인 출처 카드로만(하나가 SFace 0.55 이상이거나 같은 공인이 0.40 이상으로 둘 넘게 모이면 걸림, 0.40 이상이면 나란히 눈으로) ② Gemini · GPT에 이름 · 비교 없이 「유명인 본뜨기로 오해받을 만큼 특정한 인상인가」(흔함 · 중간 · 높음) ③ 렌즈 걸림 · 모델 하나라도 높음 · 두 모델 모두 중간이면 특징 둘 이상 바꿔 다시 굽기, 실존 인물 이름 · 사진은 git 밖에만. 이름 부름 굽기 관문은 받아쓰기 둘(로컬 whisper 두 모델)이 모두 이름을 자모 닮음 0.8 이상으로 적을 때 통과, 하나만 맞으면 한 번 더, 그래도 못 넘으면 글로만(설계 10절 열린 것을 닫음). | 11-03 T-C 넷: uz-m이 렌즈(같은 해외 배우 공인 카드 둘 0.40~0.41) · Gemini · GPT 모두 「중간 — 미간까지 짙은 눈썹 · 곧은 콧대」로 Fable P1과 같은 자리를 짚음 → 다섯 특징을 바꿔 다시 구움(옛 얼굴과 0.20). 렌즈는 웹에서 가장 닮은 얼굴을 모아 스톡 · AI · SNS 사진이 0.50~0.60이라 전체 최고값으로는 넷 중 셋이 걸려 공인 카드로 좁힘. 공인과 대조해 이름을 대라는 질문은 GPT가 넷 모두 거절. 재료 experiences/drama/qa/제2의나-20261102/조각/README.md |
 | 2026-11-03 | 확정 | [영상 사전검사 실제 대본 비교] 실제 제작 대본 8쌍으로 기존 결정을 재검증했다. 운영은 JS 개선판을 유지하고 Rust/WASM은 비교 실험에 둔다. | 실제 수업의 3,277자 받아쓰기 대조 중앙값은 기존 JS 48.97ms, 적용 JS 1.77ms, Rust/WASM 1.53ms였다. [측정 방법과 입력별 결과](../../tools/text-compare-bench/README.md#real-scripts-20261103) |
 | 2026-11-03 | 확정 | [영상 사전검사 프레임 디코딩] 검증한 H.264 형식은 전 프레임을 최대 8개 스레드로 읽고, 디코더 진단이나 시각·개수 이상이 있으면 기존 디코더 설정으로 재확인한다. | 두 완성본의 전체 검사 중앙값 65.5%·67.5% 단축, 검증 파일 45개의 프레임 시각·판정 일치. [적용 범위와 실측](../현장노트/영상_ffmpeg_자막.md#preflight-frame-scan-20261103) |
